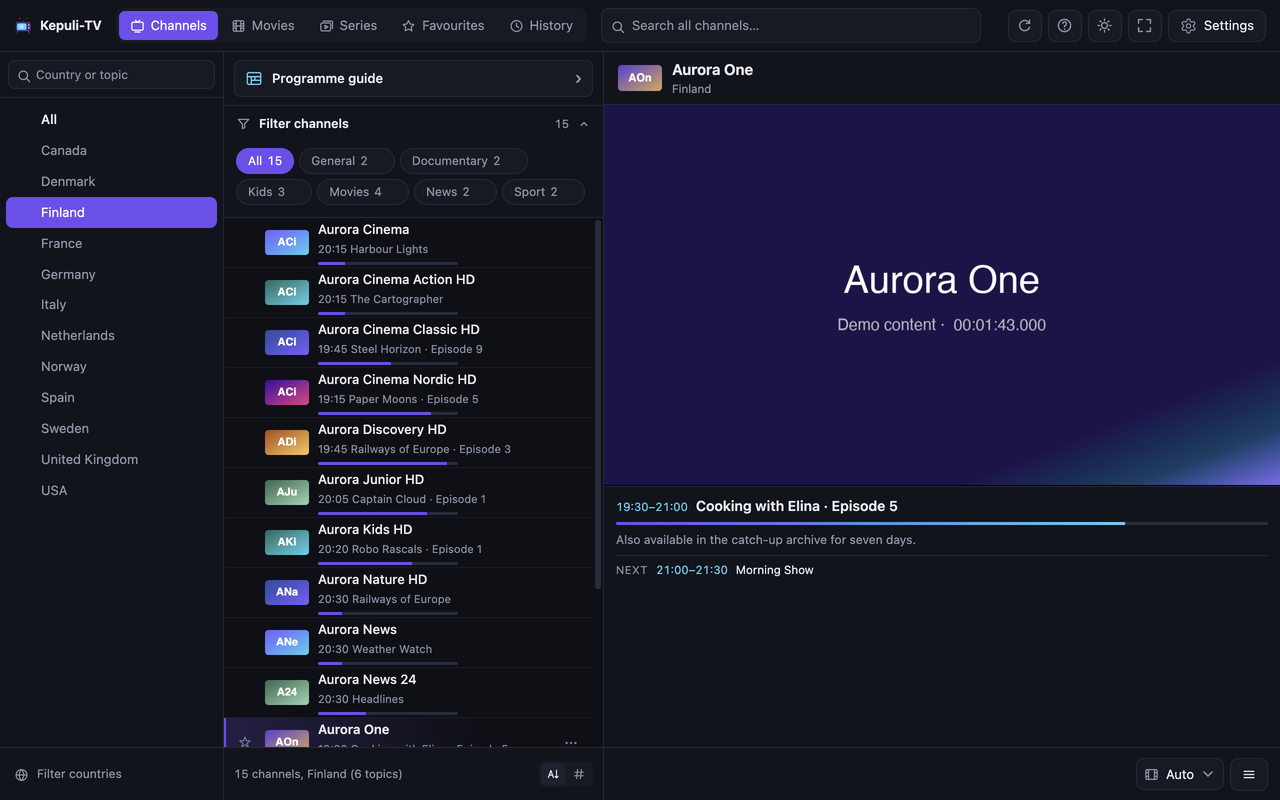
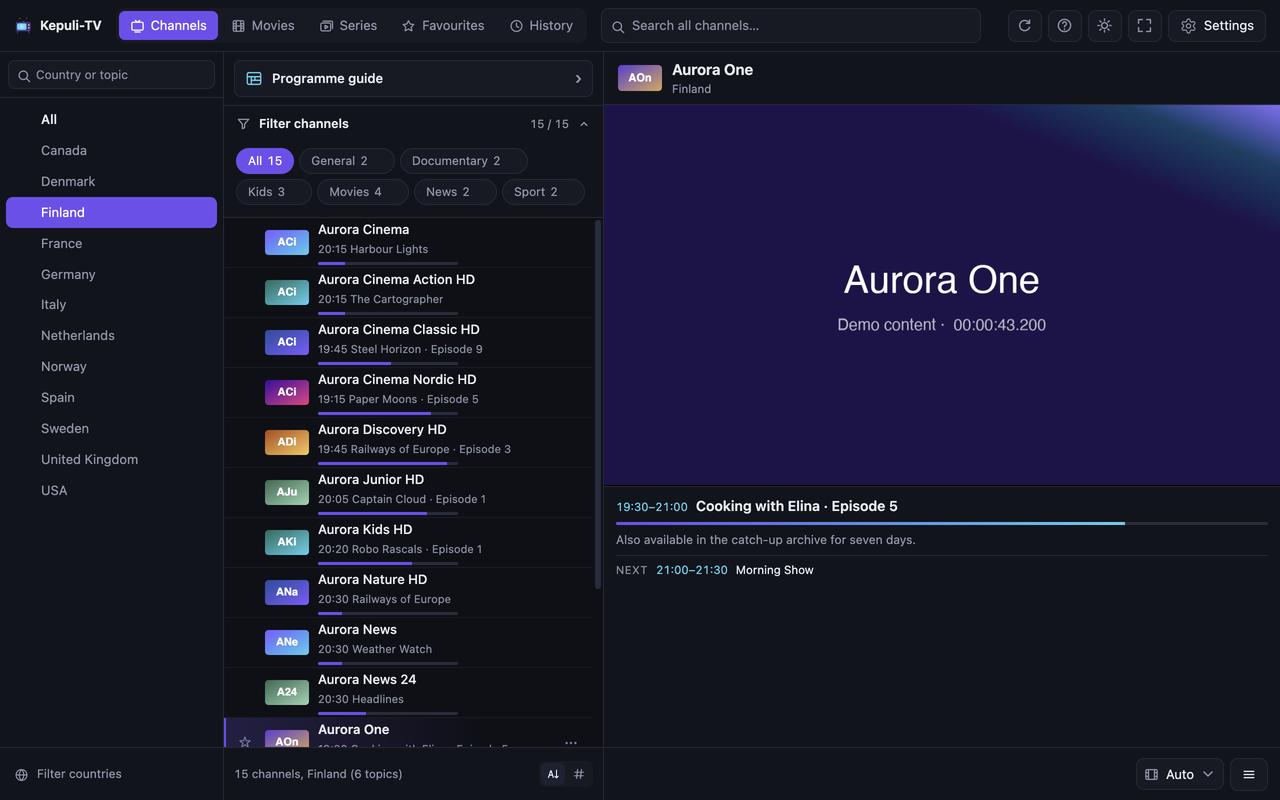
"Filter channels" and "Filter titles" open the first time and say "shown / total" alike
The two folds above the list told their state three ways: "Filter channels"
opened by default and showed the chosen topic's name or a bare count, while
"Filter titles" stayed closed and showed "shown / total". Both now follow one
rule, foldOpen in js/mediafilters.js: open the first time, so a viewer sees
once what can narrow the list, and after that as it was left. Their headings
come from one function, foldSummary: the name, a dot while a topic or a filter
narrows the list, and how many rows of how many are left, the channels' total
being the country's channels before the topic.

The movie views of the visual check now show the films' filters open, and the
channel views the "15 / 15" counter; the filterfolds scenario checks both
folds on a fresh profile.

Claude-Session: https://claude.ai/code/session_011jsMnvrRFhUGx9tiavzMEY

Changed region(s): [[0.8438, 0.5, 1.0, 0.625], [0.8125, 0.125, 1.0, 0.25]]

diff --git a/js/mediafilters.js b/js/mediafilters.js
@@ -1,7 +1,28 @@
 import { t, localeTag } from './i18n.js';
 import { ratingValue } from './rating.js';
 import { isPicking } from './picker.js';
-import { duration } from './format.js';
+import { duration, nf } from './format.js';
+
+/**
+ * The list's filter folds ("Filter channels", "Filter titles") say their
+ * state one way: the name, a dot while something in them narrows the list,
+ * and how many rows of how many are left. They used to say it three ways
+ * (a topic's name, a bare count, "n / total").
+ */
+export function foldSummary(caption, count, { label, shown, total, active }) {
+  caption.textContent = label + (active ? ' •' : '');
+  count.textContent = `${nf.format(shown)} / ${nf.format(total)}`;
+}
+
+/**
+ * Whether a filter fold opens, from what was stored when it was last
+ * opened or closed: the first time open, so that a viewer sees what can
+ * narrow the list once, and after that as it was left. One rule for both
+ * folds; the channels' opened and the films' stayed closed before.
+ */
+export function foldOpen(stored) {
+  return stored !== false;
+}
 
 export function releaseYear(value, name = '') {
   const explicit = /^(18\d{2}|19\d{2}|20\d{2}|21\d{2})(?:$|-)/.exec(String(value || '').trim());
@@ -274,8 +295,7 @@ export class MediaFilters {
     }
     this.renderLength(entries, type, filters);
     const active = Object.values(filters).some(Boolean);
-    this.caption.textContent = t('filters.title') + (active ? ' •' : '');
-    this.count.textContent = `${results.length.toLocaleString(localeTag())} / ${rows.length.toLocaleString(localeTag())}`;
+    foldSummary(this.caption, this.count, { label: t('filters.title'), shown: results.length, total: rows.length, active });
     this.reset.textContent = t('filters.reset');
     this.reset.disabled = !active;
     const missing = entries.some(e => !e.facts.year || !e.facts.rating || (type === 'series' && !e.facts.genres.length) || (type === 'movie' && !e.facts.minutes));

diff --git a/js/listfilters.js b/js/listfilters.js
@@ -16,9 +16,9 @@
 
 import { $, el } from './dom.js';
 import { t } from './i18n.js';
-import { nf } from './format.js';
+import { foldOpen, foldSummary } from './mediafilters.js';
 import * as store from './config.js';
-import { isCollection, state } from './app.js';
+import { isCollection, state, visibleRows, withoutInternational } from './app.js';
 
 let panel;
 let body;
@@ -48,9 +48,10 @@ export function wireListFilters(ui) {
   count = $('channel-filters-count');
   caption = $('channel-filters-label');
   for (const node of [el.subcats, el.subcatsGrip, $('fav-strip')]) remember(node);
-  // Open the first time: the topics were always in sight, and a viewer
-  // who has not folded them away should find them where they were.
-  panel.open = ui.channelFiltersOpen !== false;
+  // Open the first time, as "Filter titles": the topics were always in
+  // sight, and a viewer who has not folded them away should find them
+  // where they were.
+  panel.open = foldOpen(ui.channelFiltersOpen);
   panel.addEventListener('toggle', () => store.saveUiState({ channelFiltersOpen: panel.open }));
 }
 
@@ -66,9 +67,10 @@ export function placeListFilters(rows) {
     moveInto(el.subcats, body);
     moveInto(el.subcatsGrip, body);
     sendHome(strip);
-    caption.textContent = t('filters.channels') + (state.sub ? ' •' : '');
-    // The topic chosen says more than a number while the fold is closed.
-    count.textContent = state.sub ? state.lib.categoryName('live', state.sub) : nf.format(rows.length);
+    // A topic narrows the country's channels as a film filter narrows
+    // the films: how many of the country's are left, and the dot.
+    const total = state.sub ? withoutInternational(visibleRows(state.groupItems)).length : rows.length;
+    foldSummary(caption, count, { label: t('filters.channels'), shown: rows.length, total, active: Boolean(state.sub) });
     return;
   }
   sendHome(el.subcats);

diff --git a/js/app.js b/js/app.js
@@ -15,7 +15,7 @@ import { categoryRow, emptyState, KIND_ICONS } from './rows.js';
 import { searchNameCleaner, searchKey, searchTerms, matchesTerms, labelCodes, homeCountryCodes, homeGroup, viewerTags } from './name.js';
 import { poster } from './poster.js';
 import { wireModal } from './modal.js';
-import { MediaFilters } from './mediafilters.js';
+import { MediaFilters, foldOpen } from './mediafilters.js';
 
 import { sameChannels } from './epggrid.js';
 import { CountryPicker, HiddenList } from './channelchoices.js';
@@ -1851,7 +1851,7 @@ function wireUi() {
 
   // The filter panel used to open itself on every visit to Movies and
   // Series and take about 140 px off the top of the list, whether or not
-  // anyone was filtering. It starts closed and stays however it was left.
+  // anyone was filtering. It stays however it was left (foldOpen).
   $('media-filters').addEventListener('toggle', () => store.saveUiState({ filtersOpen: $('media-filters').open }));
 
   let filterTimer = null;
@@ -2131,7 +2131,7 @@ async function init() {
   if (typeof ui.subcatsHeight === 'number') state.subcatsHeight = ui.subcatsHeight;
   restoreListView(ui.listView);
   watchGridWidth();
-  $('media-filters').open = ui.filtersOpen === true;
+  $('media-filters').open = foldOpen(ui.filtersOpen);
   wireListFilters(ui);
   markTabs(state.tab);
 

diff --git a/docs/user-guide.md b/docs/user-guide.md
@@ -162,8 +162,10 @@ the player actually arrives.
   within the selected content type.
 - Above the list, **Filter channels** holds a country's topics, and the
   films' and series' **Filter titles** their filters with the favourites
-  among the list at its end; each folds away, and open or folded is
-  remembered. **Filter countries** at the foot of the sidebar (**Filter
+  among the list at its end. Both are open the first time and fold away,
+  and open or folded is remembered for each; folded or not, the heading
+  says how many of how many are shown (**2 / 15**), with a dot after the
+  name while a topic or a filter narrows the list. **Filter countries** at the foot of the sidebar (**Filter
   categories** on the films and the series) shows all of them, only the
   favourite ones (those you have starred), or the ones you tick in its
   list; a tick chooses that last mode by itself, and the list is kept when
